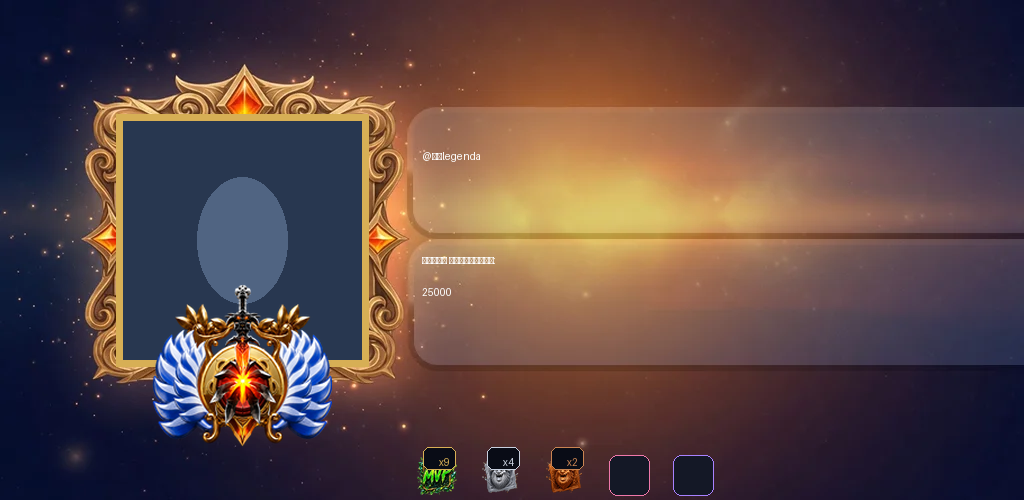
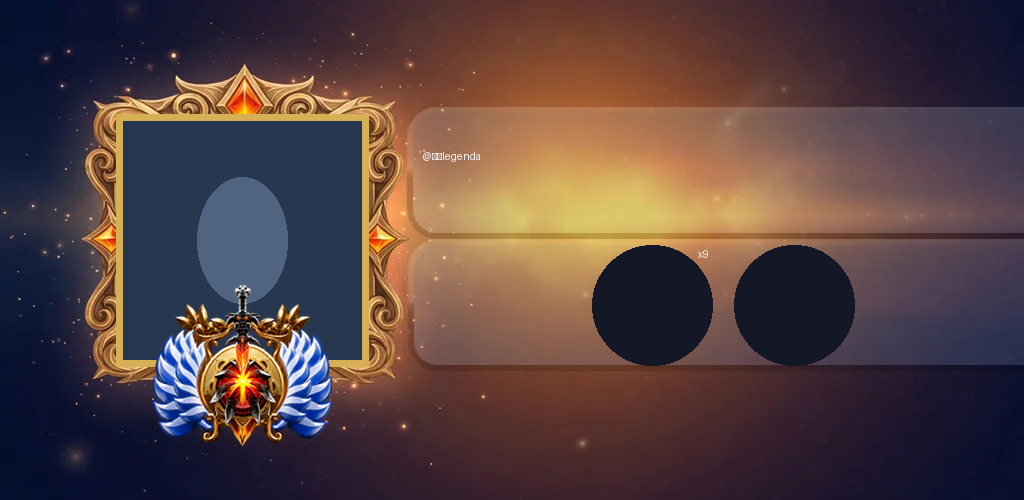
feat: VIP tag persistence for manual VIP assignment

diff --git a/tags.py b/tags.py
@@ -44,24 +44,30 @@ TAG_PRIORITY = {
 
 
 def get_user_tags(telegram_id: int) -> list:
-    from database import get_user
+    from database import get_user, get_vip_users
     user = get_user(telegram_id)
     if not user:
         return []
     raw = user.get("user_tags")
-    if not raw:
-        return []
-    if isinstance(raw, list):
-        return [t for t in raw if t in TAG_TYPES]
-    try:
-        data = json.loads(raw)
-        if isinstance(data, list):
-            return [t for t in data if t in TAG_TYPES]
-    except Exception:
-        pass
-    if isinstance(raw, str) and raw in TAG_TYPES:
-        return [raw]
-    return []
+    tags = []
+    if raw:
+        if isinstance(raw, list):
+            tags = [t for t in raw if t in TAG_TYPES]
+        else:
+            try:
+                data = json.loads(raw)
+                if isinstance(data, list):
+                    tags = [t for t in data if t in TAG_TYPES]
+            except Exception:
+                if isinstance(raw, str) and raw in TAG_TYPES:
+                    tags = [raw]
+    
+    vip_users = get_vip_users()
+    if str(telegram_id) in [str(uid) for uid in vip_users] or telegram_id in vip_users:
+        if "VIP" not in tags:
+            tags = tags + ["VIP"]
+    
+    return tags
 
 
 def _save_user_tags(telegram_id: int, tags: list) -> None:
@@ -304,6 +310,14 @@ async def refresh_fissure_top_tags(bot, chat_id: int, notify: bool = True) -> No
         logger.info("tag_manager: refresh_fissure_top_tags: no top users")
         return
 
+    def _tg(u):
+        return u.get('telegram_id') if u else None
+
+    def _name(u):
+        if not u:
+            return ""
+        return u.get('username') or u.get('steam_nickname') or str(u.get('telegram_id'))
+
     logger.info(f"tag_manager: refresh_fissure_top_tags: top_users count={len(top_users)}")
     if top_users:
         logger.info(f"tag_manager: top1={_tg(top_users[0]) if len(top_users) > 0 else None}")
@@ -316,22 +330,6 @@ async def refresh_fissure_top_tags(bot, chat_id: int, notify: bool = True) -> No
     current_top1 = top_users[0] if len(top_users) > 0 else None
     current_top2 = top_users[1] if len(top_users) > 1 else None
     current_top3 = [u for u in top_users[2:15]] if len(top_users) > 2 else []
-
-    def _tg(u):
-        return u.get('telegram_id') if u else None
-
-    def _name(u):
-        if not u:
-            return ""
-        return u.get('username') or u.get('steam_nickname') or str(u.get('telegram_id'))
-
-    async def _is_admin(tg_id):
-        if not tg_id:
-            return False
-        try:
-            return await _is_admin(bot, chat_id, int(tg_id))
-        except Exception:
-            return False
 
     # --- ТОП 1 (F1) ---
     new_top1_tg = _tg(current_top1)
@@ -347,7 +345,7 @@ async def refresh_fissure_top_tags(bot, chat_id: int, notify: bool = True) -> No
 
     if stored_top1_tg and str(new_top1_tg) != str(stored_top1_tg) and int(stored_top1_tg) != 0:
         # Забираем у старого
-        if not await _is_admin(int(stored_top1_tg)):
+        if not await _is_admin(bot, chat_id, int(stored_top1_tg)):
             try:
                 await remove_user_tag(int(stored_top1_tg), "F1", bot=bot, chat_id=chat_id)
                 logger.info(f"tag_manager: refresh_fissure_top_tags: removed F1 from {stored_top1_tg}")
@@ -373,7 +371,7 @@ async def refresh_fissure_top_tags(bot, chat_id: int, notify: bool = True) -> No
                     logger.info(f"tag_manager: refresh_fissure_top_tags: passed F3 to old top-1 {stored_top1_tg}")
 
     # Выдаём новому
-    if new_top1_tg and not await _is_admin(new_top1_tg):
+    if new_top1_tg and not await _is_admin(bot, chat_id, int(new_top1_tg)):
         try:
             await add_user_tag(int(new_top1_tg), "F1", bot=bot, chat_id=chat_id)
             set_config('current_F1_telegram_id', str(new_top1_tg))
@@ -396,7 +394,7 @@ async def refresh_fissure_top_tags(bot, chat_id: int, notify: bool = True) -> No
                 break
 
     if stored_top2_tg and str(new_top2_tg) != str(stored_top2_tg) and int(stored_top2_tg) != 0:
-        if not await _is_admin(int(stored_top2_tg)):
+        if not await _is_admin(bot, chat_id, int(stored_top2_tg)):
             try:
                 await remove_user_tag(int(stored_top2_tg), "F2", bot=bot, chat_id=chat_id)
                 logger.info(f"tag_manager: refresh_fissure_top_tags: removed F2 from {stored_top2_tg}")
@@ -414,7 +412,7 @@ async def refresh_fissure_top_tags(bot, chat_id: int, notify: bool = True) -> No
                             logger.info(f"tag_manager: refresh_fissure_top_tags: passed F3 to old top-2 {stored_top2_tg}")
                     break
 
-    if new_top2_tg and not await _is_admin(new_top2_tg):
+    if new_top2_tg and not await _is_admin(bot, chat_id, int(new_top2_tg)):
         try:
             await add_user_tag(int(new_top2_tg), "F2", bot=bot, chat_id=chat_id)
             set_config('current_F2_telegram_id', str(new_top2_tg))

diff --git a/main.py b/main.py
@@ -3673,8 +3673,9 @@ async def admin_tag(update: Update, context: ContextTypes.DEFAULT_TYPE):
         await context.bot.send_message(
             chat_id=update.effective_chat.id,
             text="Использование: /tag <@username|telegram_id> <тип>\n"
-                 "Типы: weekly_mvp, weekly_top2, weekly_top3, fissure_master, admin_custom\n"
-                 "Пример: /tag @user weekly_mvp",
+                 "Типы: weekly_mvp, weekly_top2, weekly_top3, fissure_master, admin_custom, VIP\n"
+                 "Пример: /tag @user weekly_mvp\n"
+                 "VIP: добавляет в список VIP (требуется ручное подтверждение в Telegram)",
             reply_markup=main_menu()
         )
         return
@@ -3707,6 +3708,24 @@ async def admin_tag(update: Update, context: ContextTypes.DEFAULT_TYPE):
 
     target_id = target_user.get('telegram_id')
     chat_id = update.effective_chat.id
+    
+    if tag_type == "VIP":
+        from database import add_vip_user
+        if await asyncio.to_thread(add_vip_user, target_id):
+            await context.bot.send_message(
+                chat_id=chat_id,
+                text=f"✅ Пользователь {target} добавлен в VIP список\n"
+                     f"⚠ ВАЖНО: VIP тег нужно установить вручную в приложении Telegram",
+                reply_markup=main_menu()
+            )
+        else:
+            await context.bot.send_message(
+                chat_id=chat_id,
+                text=f"❌ Ошибка при добавлении VIP для {target}",
+                reply_markup=main_menu()
+            )
+        return
+    
     ok = await add_user_tag(target_id, tag_type, bot=context.bot, chat_id=chat_id)
     label = TAG_DISPLAY.get(tag_type, TAG_TYPES.get(tag_type, tag_type))
     await context.bot.send_message(
@@ -3733,7 +3752,7 @@ async def admin_untag(update: Update, context: ContextTypes.DEFAULT_TYPE):
         await context.bot.send_message(
             chat_id=update.effective_chat.id,
             text="Использование: /untag <@username|telegram_id> <тип>\n"
-                 "Типы: weekly_mvp, weekly_top2, weekly_top3, fissure_master, admin_custom\n"
+                 "Типы: weekly_mvp, weekly_top2, weekly_top3, fissure_master, admin_custom, VIP\n"
                  "Пример: /untag @user weekly_mvp",
             reply_markup=main_menu()
         )
@@ -3767,6 +3786,23 @@ async def admin_untag(update: Update, context: ContextTypes.DEFAULT_TYPE):
 
     target_id = target_user.get('telegram_id')
     chat_id = update.effective_chat.id
+    
+    if tag_type == "VIP":
+        from database import remove_vip_user
+        if await asyncio.to_thread(remove_vip_user, target_id):
+            await context.bot.send_message(
+                chat_id=chat_id,
+                text=f"✅ Пользователь {target} удалён из VIP списка",
+                reply_markup=main_menu()
+            )
+        else:
+            await context.bot.send_message(
+                chat_id=chat_id,
+                text=f"❌ Ошибка при удалении VIP для {target}",
+                reply_markup=main_menu()
+            )
+        return
+    
     ok = await remove_user_tag(target_id, tag_type, bot=context.bot, chat_id=chat_id)
     label = TAG_DISPLAY.get(tag_type, TAG_TYPES.get(tag_type, tag_type))
     await context.bot.send_message(

diff --git a/database.py b/database.py
@@ -4224,3 +4224,47 @@ def validate_user_registry():
     except Exception as e:
         logger.error(f"validate_user_registry error: {e}")
         return -1
+
+
+def get_vip_users() -> set:
+    """Получить множество VIP пользователей из конфига."""
+    import json
+    vip_data = get_config('vip_users_list')
+    if not vip_data:
+        return set()
+    try:
+        return set(int(x) for x in json.loads(vip_data) if x)
+    except Exception:
+        return set()
+
+
+def add_vip_user(telegram_id: int) -> bool:
+    """Добавить пользователя в список VIP."""
+    import json
+    vip_users = get_vip_users()
+    if telegram_id in vip_users:
+        return True
+    vip_users.add(telegram_id)
+    try:
+        set_config('vip_users_list', json.dumps(list(vip_users)))
+        logger.info(f"vip: added user {telegram_id} to VIP list")
+        return True
+    except Exception as e:
+        logger.warning(f"vip: failed to add user {telegram_id}: {e}")
+        return False
+
+
+def remove_vip_user(telegram_id: int) -> bool:
+    """Удалить пользователя из списка VIP."""
+    import json
+    vip_users = get_vip_users()
+    if telegram_id not in vip_users:
+        return True
+    vip_users.discard(telegram_id)
+    try:
+        set_config('vip_users_list', json.dumps(list(vip_users)))
+        logger.info(f"vip: removed user {telegram_id} from VIP list")
+        return True
+    except Exception as e:
+        logger.warning(f"vip: failed to remove user {telegram_id}: {e}")
+        return False

diff --git a/tests/test_profile_card.py b/tests/test_profile_card.py
@@ -354,8 +354,8 @@ class TestProfileCardRegressions:
         assert dota_mmr._profile_awards_cap(8) == (5, "5 из 8")
         assert dota_mmr._profile_awards_cap(6) == (5, "5 из 6")
         layout = dota_mmr._profile_awards_layout(5)
-        assert layout["rows"] == 1 and layout["tile"] == 60.0
-        assert layout["top"] == 240.0
+        assert layout["rows"] == 1 and layout["tile"] == 120.0
+        assert layout["top"] == 245.0
         assert layout["bottom"] <= PROFILE_CARD_H - 4
 
     @pytest.mark.parametrize("current,best,expected", [
